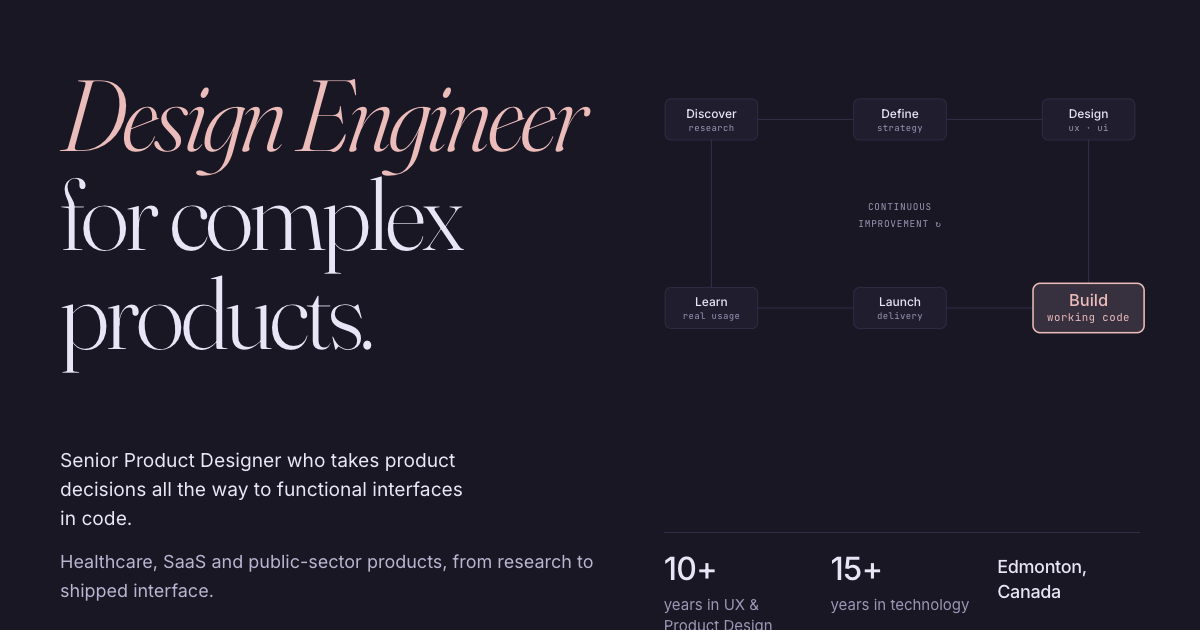
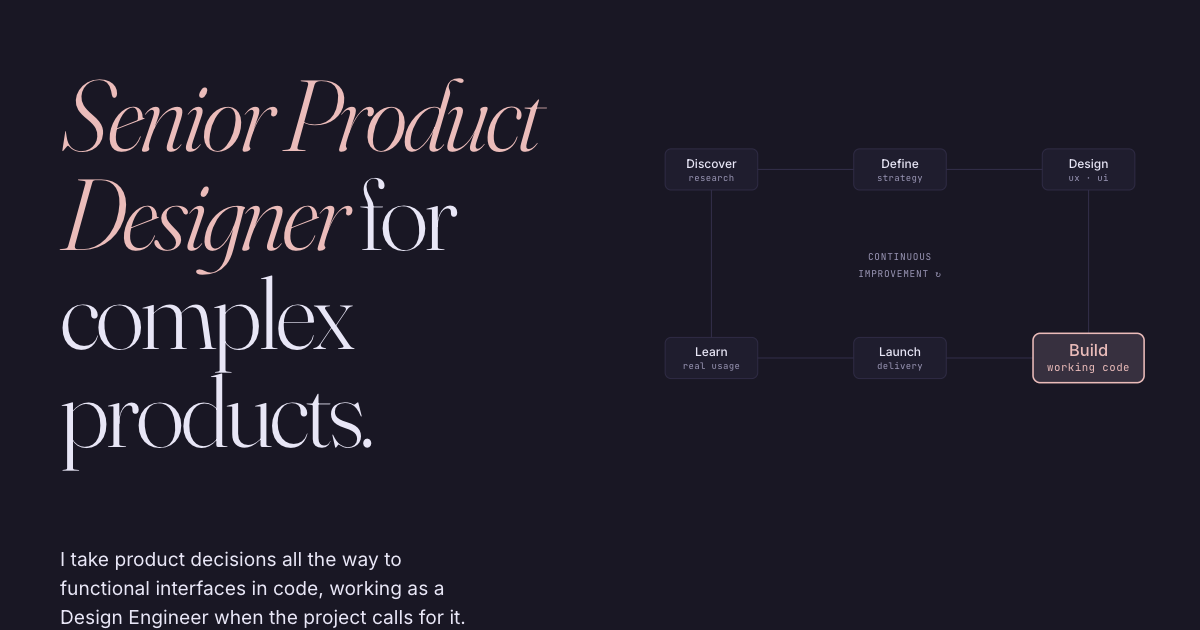
Lead with Senior Product Designer; remove Deel certification

diff --git a/src/seo.js b/src/seo.js
@@ -5,37 +5,37 @@ export const OG_IMAGE = `${SITE_URL}/og.png`
 
 export const routes = {
   '/': {
-    title: 'Rafaelle Weran · Design Engineer & Senior Product Designer',
+    title: 'Rafaelle Weran · Senior Product Designer & Design Engineer',
     description:
-      'Design Engineer and Senior Product Designer in Edmonton, Canada. I take product decisions all the way to functional interfaces in code, across healthcare, SaaS and public-sector products.',
+      'Senior Product Designer and Design Engineer in Edmonton, Canada. I take product decisions all the way to functional interfaces in code, across healthcare, SaaS and public-sector products.',
   },
   '/work': {
-    title: 'Work · Rafaelle Weran, Design Engineer & Senior Product Designer',
+    title: 'Work · Rafaelle Weran, Senior Product Designer & Design Engineer',
     description:
       'Selected product design work: MyClinic360, Med.co and UIRAJARR, plus websites designed and built in code.',
   },
   '/experience': {
-    title: 'Experience · Rafaelle Weran, Design Engineer',
+    title: 'Experience · Rafaelle Weran, Senior Product Designer',
     description:
       'Timeline of roles, teams and clients: Aya Studio, Spieker Point, independent product and UX contracts, and public-sector technology in Brazil.',
   },
   '/about': {
-    title: 'About · Rafaelle Weran, Design Engineer',
+    title: 'About · Rafaelle Weran, Senior Product Designer',
     description:
       'Senior Product Designer with a technology background who designs products and builds the interfaces that ship them.',
   },
   '/work/myclinic360': {
-    title: 'MyClinic360 · Rafaelle Weran, Design Engineer',
+    title: 'MyClinic360 · Rafaelle Weran, Senior Product Designer',
     description:
       'Designing a specialized clinical platform for pelvic physiotherapists, from discovery and MVP to post-launch evolution.',
   },
   '/work/medco': {
-    title: 'Med.co · Rafaelle Weran, Design Engineer',
+    title: 'Med.co · Rafaelle Weran, Senior Product Designer',
     description:
       'Designing a structured channel between physicians and patients, and exploring its evolution into AI-assisted intake and teleorientation.',
   },
   '/work/uirajarr': {
-    title: 'UIRAJARR · TJRR · Rafaelle Weran, Design Engineer',
+    title: 'UIRAJARR · TJRR · Rafaelle Weran, Senior Product Designer',
     description:
       'Turning a fragmented government travel process into one traceable, role-based digital workflow for the Court of Justice of Roraima.',
   },

diff --git a/index.html b/index.html
@@ -3,14 +3,14 @@
   <head>
     <meta charset="utf-8" />
     <meta name="viewport" content="width=device-width, initial-scale=1" />
-    <title>Rafaelle Weran · Design Engineer & Senior Product Designer</title>
-    <meta name="description" content="Design Engineer and Senior Product Designer in Edmonton, Canada. I take product decisions all the way to functional interfaces in code, across healthcare, SaaS and public-sector products." />
+    <title>Rafaelle Weran · Senior Product Designer & Design Engineer</title>
+    <meta name="description" content="Senior Product Designer and Design Engineer in Edmonton, Canada. I take product decisions all the way to functional interfaces in code, across healthcare, SaaS and public-sector products." />
     <link rel="canonical" href="https://www.rafaelleweran.com/" />
     <meta property="og:type" content="website" />
     <meta property="og:site_name" content="Rafaelle Weran" />
     <meta property="og:url" content="https://www.rafaelleweran.com/" />
-    <meta property="og:title" content="Rafaelle Weran · Design Engineer & Senior Product Designer" />
-    <meta property="og:description" content="Design Engineer and Senior Product Designer in Edmonton, Canada. I take product decisions all the way to functional interfaces in code, across healthcare, SaaS and public-sector products." />
+    <meta property="og:title" content="Rafaelle Weran · Senior Product Designer & Design Engineer" />
+    <meta property="og:description" content="Senior Product Designer and Design Engineer in Edmonton, Canada. I take product decisions all the way to functional interfaces in code, across healthcare, SaaS and public-sector products." />
     <meta property="og:image" content="https://www.rafaelleweran.com/og.png" />
     <meta name="twitter:card" content="summary_large_image" />
     <script type="application/ld+json">
@@ -18,7 +18,7 @@
         "@context": "https://schema.org",
         "@type": "Person",
         "name": "Rafaelle Weran",
-        "jobTitle": "Design Engineer",
+        "jobTitle": "Senior Product Designer",
         "description": "Senior Product Designer who takes product decisions all the way to functional interfaces in code.",
         "url": "https://www.rafaelleweran.com/",
         "image": "https://www.rafaelleweran.com/images/rafaelle-portrait.jpg",

diff --git a/src/data.js b/src/data.js
@@ -1,7 +1,7 @@
 export const profile = {
   name: 'Rafaelle Weran',
-  role: 'Design Engineer',
-  headline: 'Senior Product Designer who takes product decisions all the way to functional interfaces in code.',
+  role: 'Senior Product Designer',
+  headline: 'I take product decisions all the way to functional interfaces in code, working as a Design Engineer when the project calls for it.',
   location: 'Edmonton, Canada · Remote worldwide',
   workEligibility: 'Eligible to work in Canada',
   email: 'rafaelle.rodrigues@gmail.com',
@@ -252,5 +252,4 @@ export const education = [
   { name: 'UX Design', org: 'Design Circuit', year: '2021' },
   { name: 'Management in Information Security Systems / Information Assurance', org: 'UNI7, Centro Universitário 7 de Setembro', year: '2007 to 2008' },
   { name: 'Faculdade de Ciências Tecnológicas de Fortaleza', org: null, year: '2001 to 2004' },
-  { name: 'Global Talent certification', org: 'Deel', year: '2026' },
 ]

diff --git a/src/pages/Experience.jsx b/src/pages/Experience.jsx
@@ -33,7 +33,7 @@ export default function Experience() {
         <Reveal as="h1">Where and when I've <em>worked</em>.</Reveal>
         <Reveal className="ex-hero-row">
           <p className="ex-hero-sub">
-            {profile.role} and Senior Product Designer. {profile.location.split(' · ')[0]}.
+            {profile.role} and Design Engineer. {profile.location.split(' · ')[0]}.
           </p>
           <CvLink />
         </Reveal>
@@ -92,7 +92,7 @@ export default function Experience() {
       <section>
         <div className="wrap">
           <Reveal>
-            <p className="label">Education and certification</p>
+            <p className="label">Education</p>
             <ul className="exp-list single">
               {education.map((ed) => (
                 <li key={ed.name + ed.org}>{ed.name} <span className="ex-org">· {ed.org ? `${ed.org}, ` : ''}{ed.year}</span></li>

diff --git a/src/App.jsx b/src/App.jsx
@@ -40,7 +40,7 @@ function Hero() {
   return (
     <header className="hero wrap">
       <div className="hero-top">
-        <Reveal as="h1"><em>Design Engineer</em> for complex products.</Reveal>
+        <Reveal as="h1"><em>Senior Product Designer</em> for complex products.</Reveal>
         <Reveal className="hero-cycle-wrap"><HeroCycle /></Reveal>
       </div>
       <div className="hero-foot">
